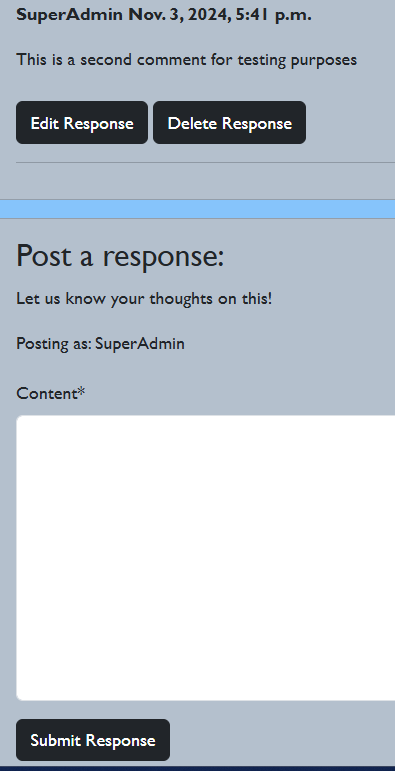
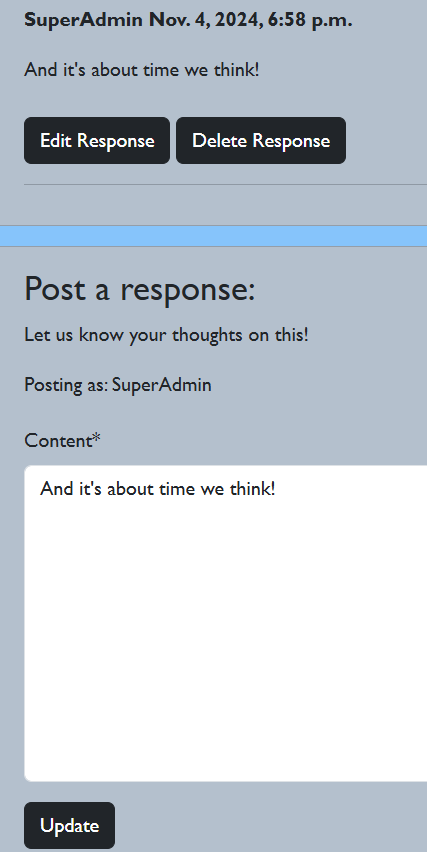
update FEATURES.md

diff --git a/FEATURES.md b/FEATURES.md
@@ -1,6 +1,6 @@
 The site has the following pages:
 + Thread list (home page)
-+ Thread content
++ Thread content (content page for a given thread)
 + Register
 + Login
 + Logout
@@ -122,7 +122,7 @@ The user will also receive a message to say that they have posted
 
 ![Posted message](documentation/features/thread_content/posted_message.png)
 
-If the user decides to update by pressing the update button below the form, the response form will repopulate with the text of their response. The button below will also change to say update.
+If the user decides to update by pressing the edit button below their response, the response form will repopulate with the text of their response. The button below will also change to say update.
 
 ![Update Response](documentation/features/thread_content/update_response.png)
 
@@ -172,7 +172,7 @@ If the user uses an incorrect password, they will see the following:
 
 ![Wrong Password](documentation/features/sign_in/wrong_password.png)
 
-If the user signs in successfully, they will be redirected to the home page and receive the following message:
+If the user signs in successfully, they will be redirected to the home page and receive amessage like the following, updated for their username:
 
 ![Successful Sign in](documentation/features/sign_in/successful_sign_in.png)
 
@@ -187,7 +187,7 @@ If they sign out they will be redirected to the home page and they will receive 
 
 ### Report User
 
-This page is available to users to report others for inappropriate behavious on the site. By clicking the Report User button in the navbar, this will open in a separate window.
+This page is available to users to report others for inappropriate behaviour on the site. By clicking the Report User button in the navbar, this will open in a separate window. It was decided that opening it in a new window would be better as it means the user can more easily refer to what they wish to report without having to reset the report form.
 
 ![Report User](documentation/features/report_user/report_user.png)
 
@@ -235,7 +235,7 @@ The report guidelines can be updated in much the same way as a thread by selecti
 
 To view submitted reports, select Report Users. The title is visible, as is the status of whether or not it has been looked at yet. 
 
-![Reports on users](documentation/features/admin/reports.png)
+![Reports on users](documentation/features/admin/report_users_.png)
 
 By selecting it, the superuser can review it and once satisfied, change the status to examined
 
@@ -261,6 +261,6 @@ And after:
 
 ![Invisible Response](documentation/features/admin/invisible_response.png)
 
-Once the response has been rendered invisible, reported users can have their accounts disabled. To do this, select users from the menu and then the porfile of the specific user being reported. Once in there, the Active box can be unchecked, at which point the user will be unable to log in until it is unchecked. Users can then be deleted if necessary. Any responses will remain on the database, again in case they contain anything requiring further investigation.
+Once the response has been rendered invisible, reported users can have their accounts disabled. To do this, select users from the menu and then the profile of the specific user being reported. Once in there, the Active box can be unchecked, at which point the user will be unable to log in until it is unchecked. Users can then be deleted if necessary. Any responses will remain on the database, again in case they contain anything requiring further investigation.
 
 ![User details](documentation/features/admin/user_details.png)
